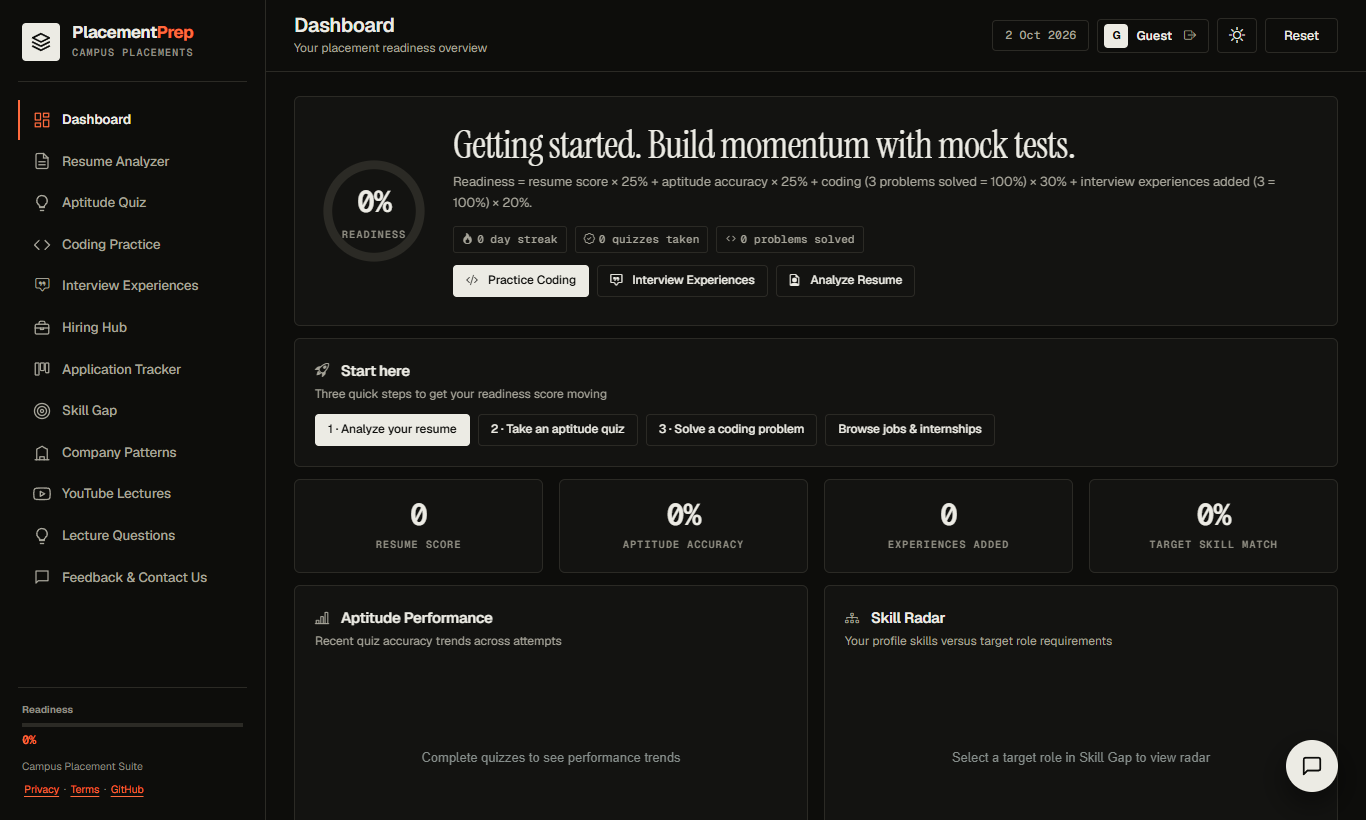
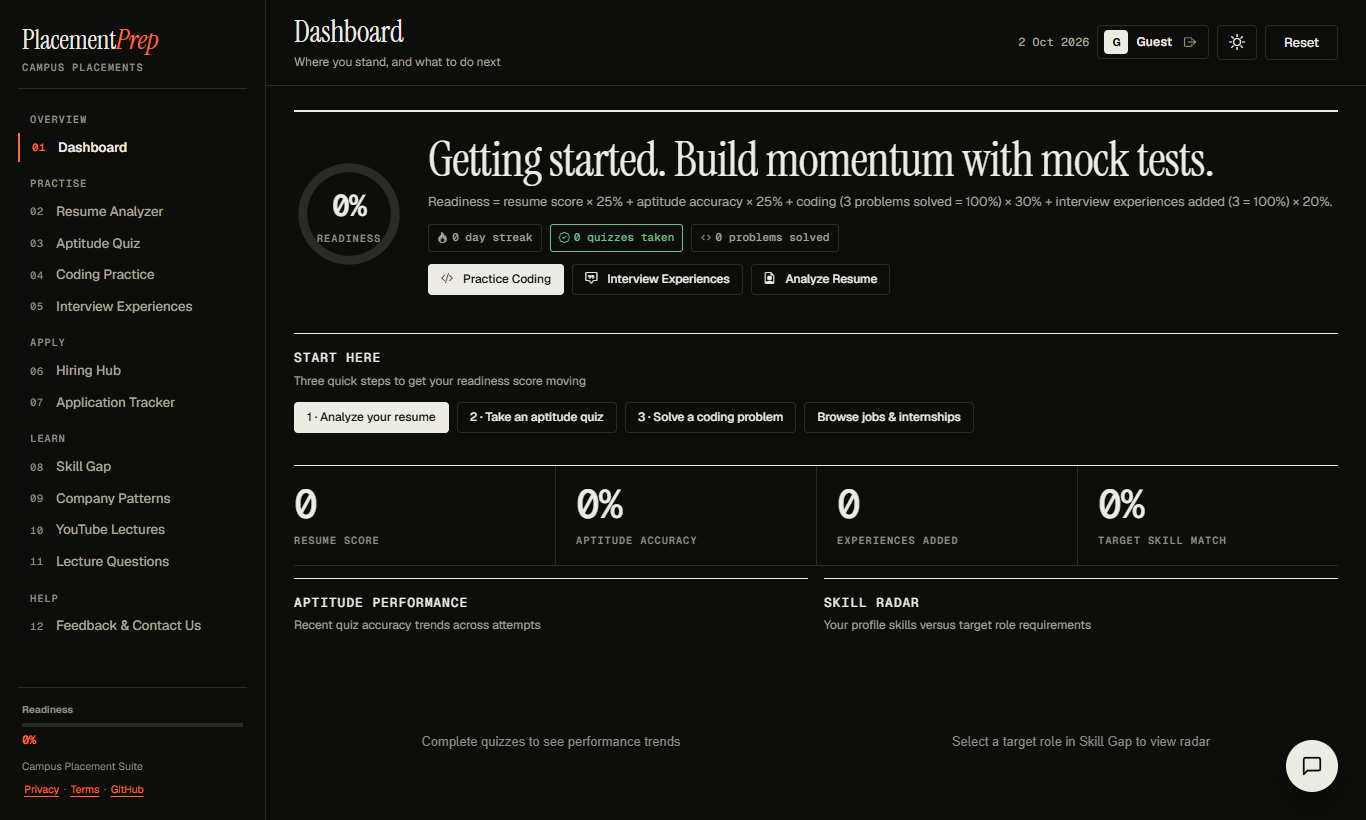
Design pass: numbered grouped nav, wordmark, ruled sections instead of boxed cards, typographic stat row, serif page titles, sharper copy

diff --git a/css/editorial.css b/css/editorial.css
@@ -364,3 +364,126 @@ a:not(.btn):not(.nav-link):not(.chip):not(.brand) { color: var(--accent); }
 #quizTimer { font-family: var(--font-mono); font-variant-numeric: tabular-nums; }
 .timer-low { color: var(--danger); }
 .sidebar .mini-fill { background: var(--accent); }
+
+/* ============================================================
+   Pass 2 — remove the remaining "template" tells:
+   icon-on-everything, boxes-on-everything, tile-row stats, logo tile.
+   ============================================================ */
+
+/* Wordmark: set in the display serif, no logo tile */
+.brand { padding: 4px 4px 18px; }
+.brand-text h1 {
+  font-family: var(--font-display);
+  font-weight: 400;
+  font-size: 27px;
+  letter-spacing: -0.01em;
+  line-height: 1;
+}
+.brand-text h1 span { font-style: italic; }
+.brand-text p { margin-top: 6px; }
+
+/* Navigation: numbered index, grouped, no icons */
+.nav { counter-reset: navi; }
+.nav-icon { display: none; }
+.nav-link { counter-increment: navi; gap: 0; padding: 7px 10px; }
+.nav-link::before {
+  content: counter(navi, decimal-leading-zero);
+  font-family: var(--font-mono);
+  font-size: 10.5px;
+  letter-spacing: 0.04em;
+  color: var(--text-faint);
+  width: 26px;
+  flex: none;
+}
+.nav-link.active::before { color: var(--accent); }
+.nav-section { margin: 18px 0 6px 12px; padding: 0; }
+.nav-section:first-child { margin-top: 4px; }
+
+/* Cards become ruled sections: ink rule on top, no box, no icon in the heading */
+.card, .grid > .card,
+:root[data-theme="dark"] .card,
+:root[data-theme="dark"] .grid > .card {
+  background: transparent;
+  border: 0;
+  border-top: 1px solid var(--text);
+  border-radius: 0;
+  padding: 14px 0 20px;
+}
+.card:hover, .grid > .card:hover { border-color: var(--text); }
+.card .card, .card .grid > .card {
+  border-top: 1px solid var(--border);
+  padding: 12px 0;
+}
+.card-title i, .empty-state > i, .empty-state .bi, .empty-icon { display: none; }
+.card-title { font-size: 13px; text-transform: uppercase; letter-spacing: 0.07em; font-family: var(--font-mono); font-weight: 500; }
+.card-sub { margin-top: 4px; }
+
+/* Items that really are boxes (list rows, tiles the user clicks) keep a hairline outline */
+.tracker-card, .job-card, .question-item, .company-card, .yt-card, .exp-card, .option-btn, .mi-bubble-ai, .mi-bubble-you,
+.modal, .job-details-modal, .toast {
+  background: var(--surface);
+  border: 1px solid var(--border);
+  border-radius: var(--radius);
+}
+
+/* Dashboard hero: no frame, big serif headline over a rule */
+.dashboard-hero, :root[data-theme="dark"] .dashboard-hero {
+  background: transparent;
+  border: 0;
+  border-top: 2px solid var(--text);
+  border-radius: 0;
+  padding: 22px 0 26px;
+}
+.hero-msg h3 { font-size: clamp(30px, 4vw, 48px); }
+
+/* Stat row: one strip with vertical hairlines instead of four tiles */
+.grid.grid-4 { gap: 0; border-top: 1px solid var(--text); border-bottom: 1px solid var(--border); }
+.grid.grid-4 > .card, .grid.grid-4 > .card.text-center {
+  border: 0;
+  border-left: 1px solid var(--border);
+  padding: 18px 20px 16px;
+  text-align: left;
+}
+.grid.grid-4 > .card:first-child { border-left: 0; padding-left: 0; }
+.grid.grid-4 .card-stat { font-size: 40px; font-weight: 500; text-align: left; line-height: 1; margin-bottom: 8px; }
+.grid.grid-4 .card-stat-label { text-align: left; }
+
+/* Top bar: plain text date, no pill */
+.date-badge { border: 0; background: transparent; padding: 0; }
+.page-title { font-family: var(--font-display); font-weight: 400; font-size: 30px; letter-spacing: -0.01em; }
+.page-subtitle { margin-top: 2px; }
+
+/* Calmer chips and tags */
+.chip { background: transparent; }
+
+@media (max-width: 900px) {
+  .grid.grid-4 { grid-template-columns: 1fr 1fr; }
+  .grid.grid-4 > .card:nth-child(odd) { border-left: 0; padding-left: 0; }
+  .grid.grid-4 > .card { border-top: 1px solid var(--border); }
+}
+
+/* Nav fits short screens: it scrolls on its own and the footer stays put */
+.sidebar { overflow: hidden; }
+.nav { flex: 1 1 auto; min-height: 0; overflow-y: auto; scrollbar-width: thin; }
+.nav-link { padding-block: 5px; }
+.nav-section { margin-top: 14px; }
+
+/* Difficulty chips: outlined, colour only carries meaning (easy / medium / hard) */
+.chip.green, :root[data-theme="dark"] .chip.green { background: transparent; color: var(--success); border-color: currentColor; }
+.chip.orange, :root[data-theme="dark"] .chip.orange, .chip.yellow { background: transparent; color: var(--warning); border-color: currentColor; }
+.chip.red, :root[data-theme="dark"] .chip.red { background: transparent; color: var(--danger); border-color: currentColor; }
+
+/* Tighter nav rhythm so all twelve links fit a 820px-high window without scrolling */
+.nav-link { padding-block: 4px; }
+.nav-section { margin: 11px 0 3px 12px; }
+.brand { padding-bottom: 12px; }
+
+.hero-msg .chip { color: var(--text-dim); border-color: var(--border); }
+
+@media (max-width: 680px) {
+  .page-title { font-size: 24px; white-space: normal; }
+  .hero-score, .dashboard-hero .hero-score { flex-direction: column; align-items: flex-start; gap: 16px; }
+  .dashboard-hero { padding-left: 0; padding-right: 0; }
+  .hero-msg h3 { font-size: 30px; }
+  .grid.grid-4 .card-stat { font-size: 32px; }
+}

diff --git a/index.html b/index.html
@@ -61,20 +61,13 @@
     <!-- Sidebar -->
     <aside class="sidebar" id="sidebar">
       <div class="brand">
-        <div class="brand-logo">
-          <svg viewBox="0 0 24 24" fill="none" stroke="currentColor" stroke-width="2" stroke-linecap="round"
-            stroke-linejoin="round">
-            <path d="M12 2L2 7l10 5 10-5-10-5z" />
-            <path d="M2 17l10 5 10-5" />
-            <path d="M2 12l10 5 10-5" />
-          </svg>
-        </div>
         <div class="brand-text">
           <h1>Placement<span>Prep</span></h1>
           <p>Campus placements</p>
         </div>
       </div>
       <nav class="nav" id="nav" aria-label="Main">
+        <div class="nav-section" role="presentation">Overview</div>
         <a href="#dashboard" class="nav-link" data-view="dashboard">
           <span class="nav-icon"><svg viewBox="0 0 24 24" fill="none" stroke="currentColor" stroke-width="2"
               stroke-linecap="round" stroke-linejoin="round">
@@ -85,6 +78,7 @@
             </svg></span>
           Dashboard
         </a>
+        <div class="nav-section" role="presentation">Practise</div>
         <a href="#resume" class="nav-link" data-view="resume">
           <span class="nav-icon"><svg viewBox="0 0 24 24" fill="none" stroke="currentColor" stroke-width="2"
               stroke-linecap="round" stroke-linejoin="round">
@@ -116,6 +110,7 @@
           <span class="nav-icon"><i class="bi bi-chat-square-quote"></i></span>
           Interview Experiences
         </a>
+        <div class="nav-section" role="presentation">Apply</div>
         <a href="#jobs" class="nav-link" data-view="jobs">
           <span class="nav-icon"><svg viewBox="0 0 24 24" fill="none" stroke="currentColor" stroke-width="2"
               stroke-linecap="round" stroke-linejoin="round">
@@ -135,6 +130,7 @@
             </svg></span>
           Application Tracker
         </a>
+        <div class="nav-section" role="presentation">Learn</div>
         <a href="#skills" class="nav-link" data-view="skills">
           <span class="nav-icon"><svg viewBox="0 0 24 24" fill="none" stroke="currentColor" stroke-width="2"
               stroke-linecap="round" stroke-linejoin="round">
@@ -171,6 +167,7 @@
             </svg></span>
           Lecture Questions
         </a>
+        <div class="nav-section" role="presentation">Help</div>
         <a href="#feedback" class="nav-link" data-view="feedback">
           <span class="nav-icon"><svg viewBox="0 0 24 24" fill="none" stroke="currentColor" stroke-width="2"
               stroke-linecap="round" stroke-linejoin="round">

diff --git a/js/app.js b/js/app.js
@@ -7,17 +7,17 @@ const App = {
   init() {
     // Register views
     this.views = {
-      dashboard: { render: (c) => Dashboard.render(c), title: 'Dashboard', subtitle: 'Your placement readiness overview' },
+      dashboard: { render: (c) => Dashboard.render(c), title: 'Dashboard', subtitle: 'Where you stand, and what to do next' },
       resume: { render: (c) => Resume.render(c), title: 'Resume Analyzer', subtitle: 'ATS score & improvement suggestions' },
-      aptitude: { render: (c) => Aptitude.render(c), title: 'Aptitude Quiz', subtitle: 'Practice with adaptive difficulty' },
+      aptitude: { render: (c) => Aptitude.render(c), title: 'Aptitude Quiz', subtitle: 'Timed or untimed, with an explanation for every answer' },
       coding: { render: (c) => Coding.render(c), title: 'Coding Practice', subtitle: 'Solve challenges in your browser' },
-      interview: { render: (c) => InterviewWall.render(c), title: 'Interview Experiences', subtitle: 'Interview rounds and tips you have saved' },
+      interview: { render: (c) => InterviewWall.render(c), title: 'Interview Experiences', subtitle: 'Rounds and tips from interviews you have sat' },
       jobs: { render: (c) => Jobs.render(c), title: 'Hiring Hub', subtitle: 'Find roles and check your resume fit' },
       feedback: { render: (c) => Feedback.render(c), title: 'Feedback & Contact Us', subtitle: 'Report a bug or share an idea' },
       tracker: { render: (c) => Tracker.render(c), title: 'Application Tracker', subtitle: 'Track every application from saved to offer' },
       skills: { render: (c) => Skills.render(c), title: 'Skill Gap Analysis', subtitle: 'Find what to learn next' },
-      company: { render: (c) => Company.render(c), title: 'Company Patterns', subtitle: 'Top tech interview patterns' },
-      youtube: { render: (c) => Youtube.render(c), title: 'YouTube Lectures', subtitle: 'Top-rated programming playlists from the best instructors' },
+      company: { render: (c) => Company.render(c), title: 'Company Patterns', subtitle: 'What each company asks, round by round' },
+      youtube: { render: (c) => Youtube.render(c), title: 'YouTube Lectures', subtitle: 'Hand-picked playlists, with your watch progress' },
       lecturequestions: { render: (c) => LectureQuestions.render(c), title: 'Lecture Questions', subtitle: 'Timestamped subject practice with runnable C++ code' }
     };
 

diff --git a/css/polish.css b/css/polish.css
@@ -45,7 +45,7 @@ textarea:focus-visible {
     min-width: 0;
   }
   .page-title {
-    font-size: 17px;
+    font-size: 24px;
     white-space: nowrap;
     overflow: hidden;
     text-overflow: ellipsis;
